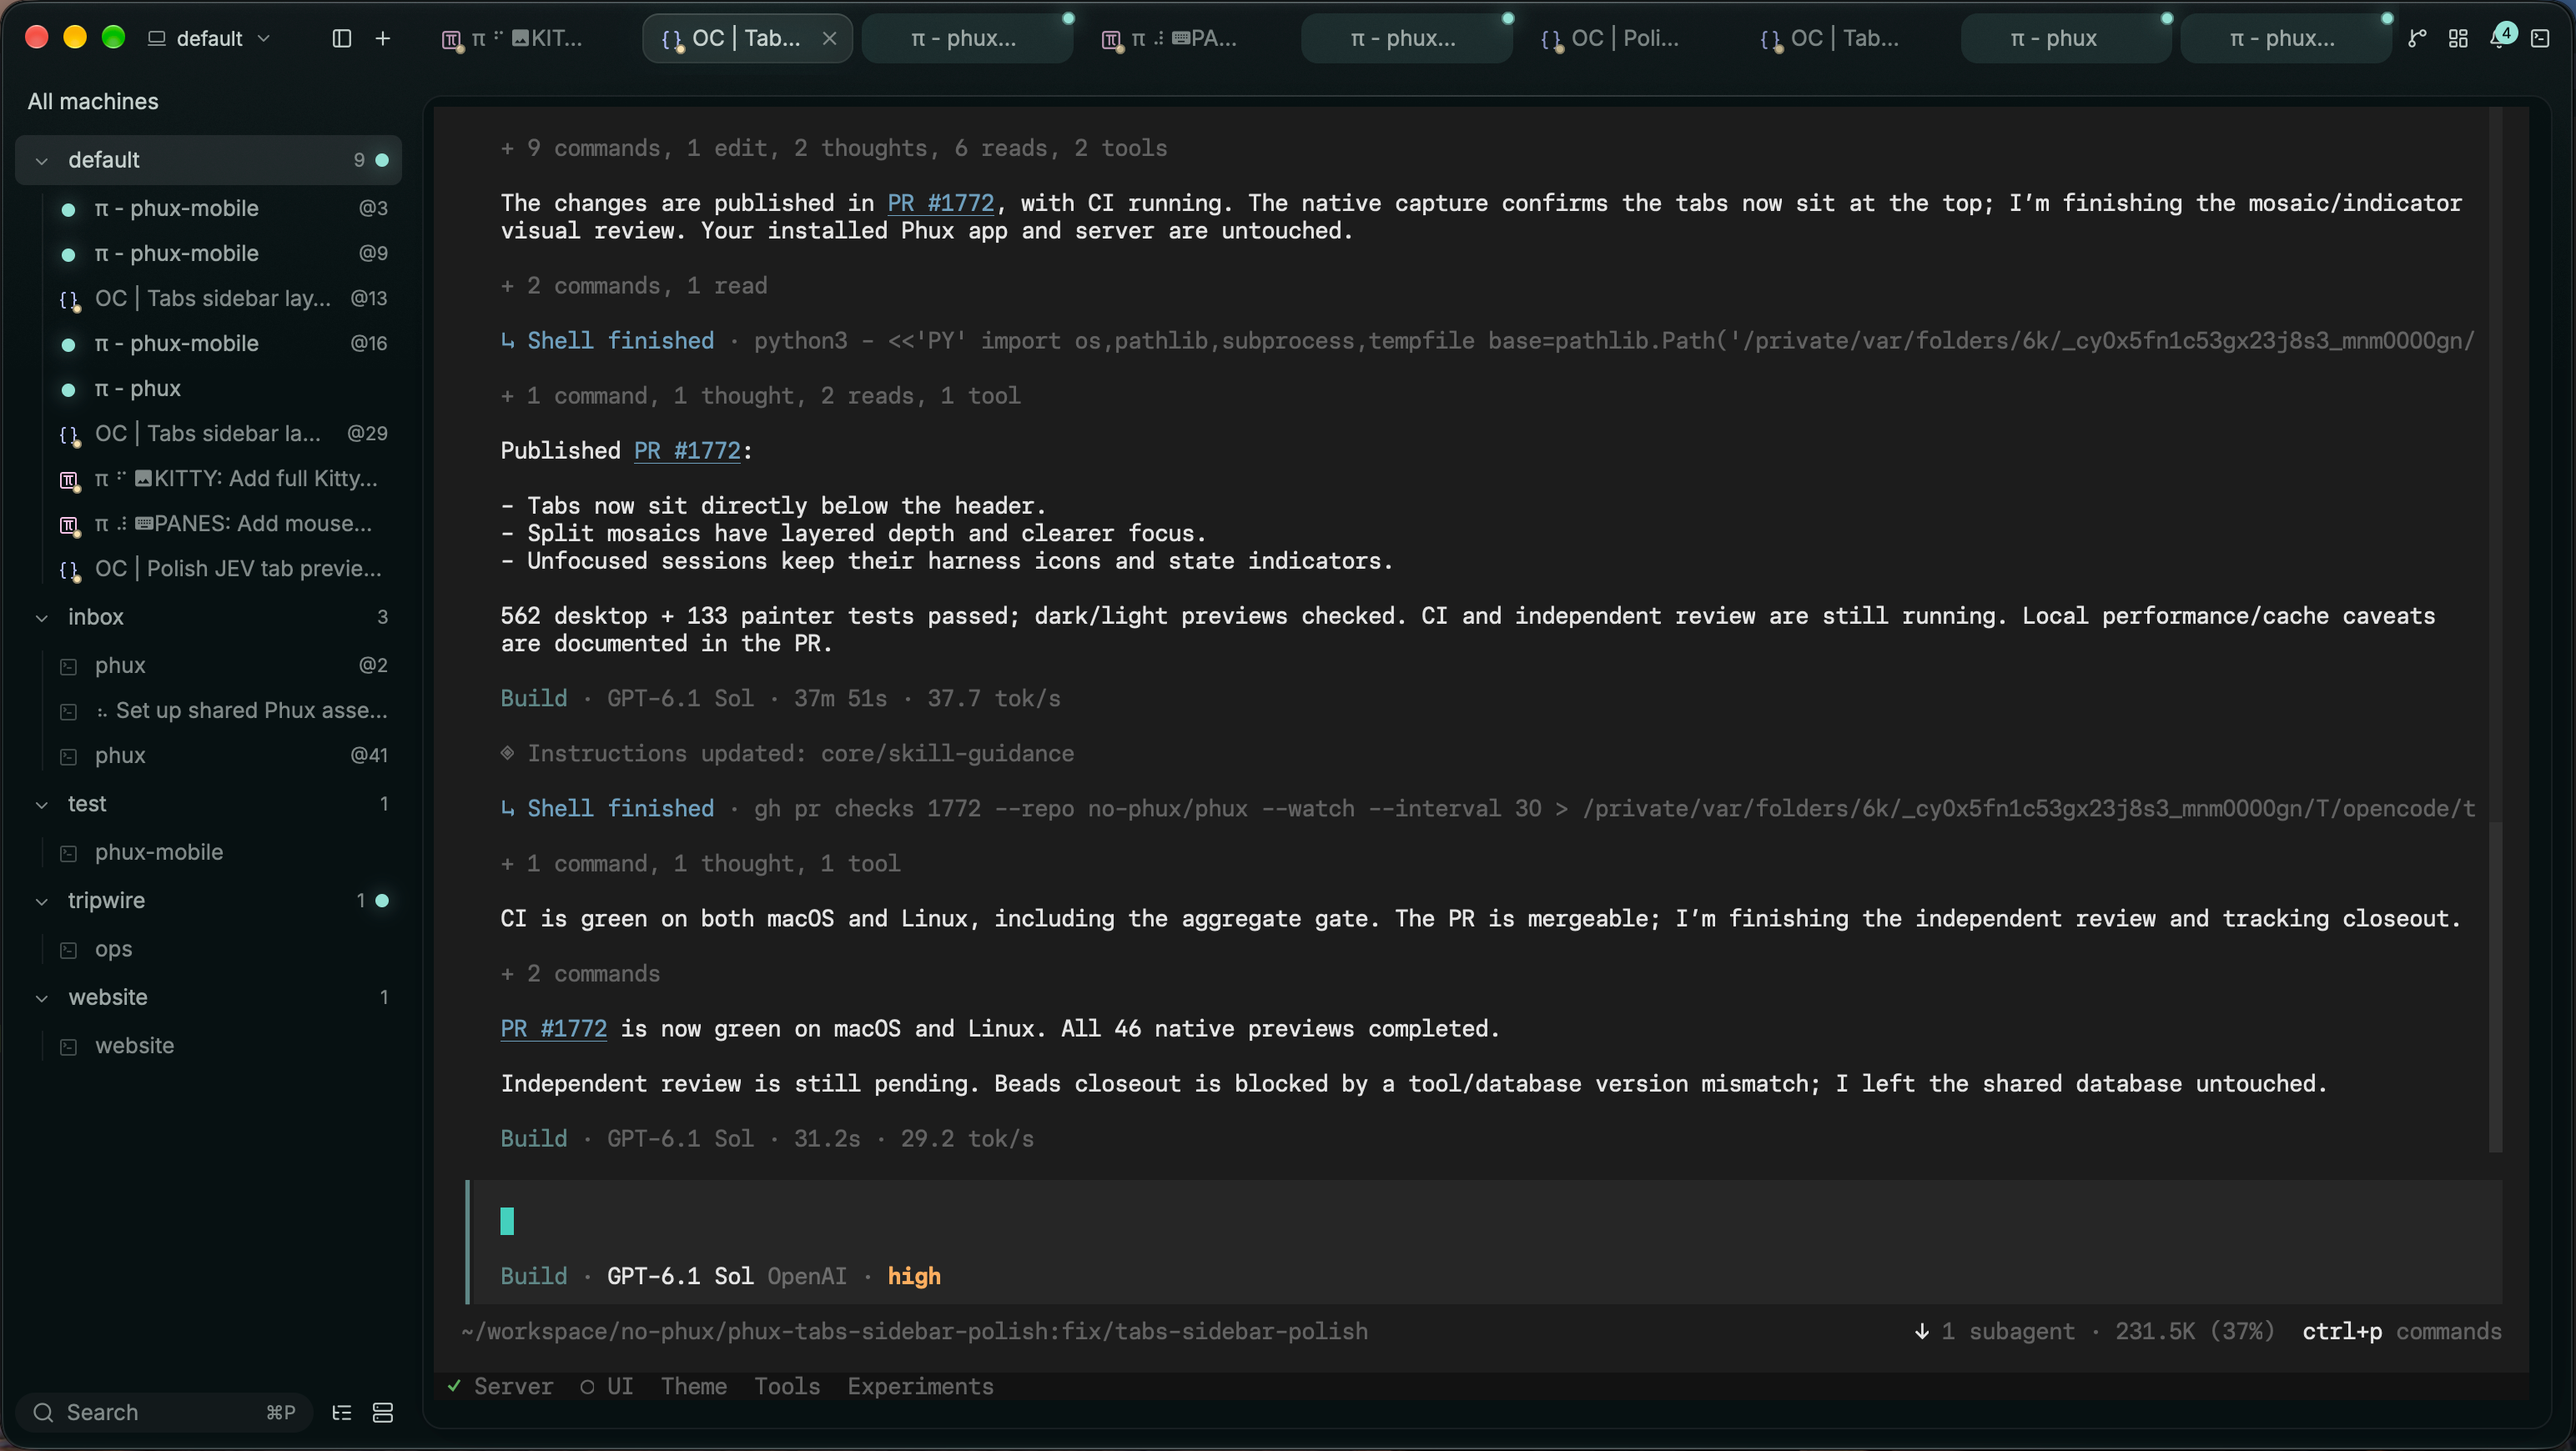
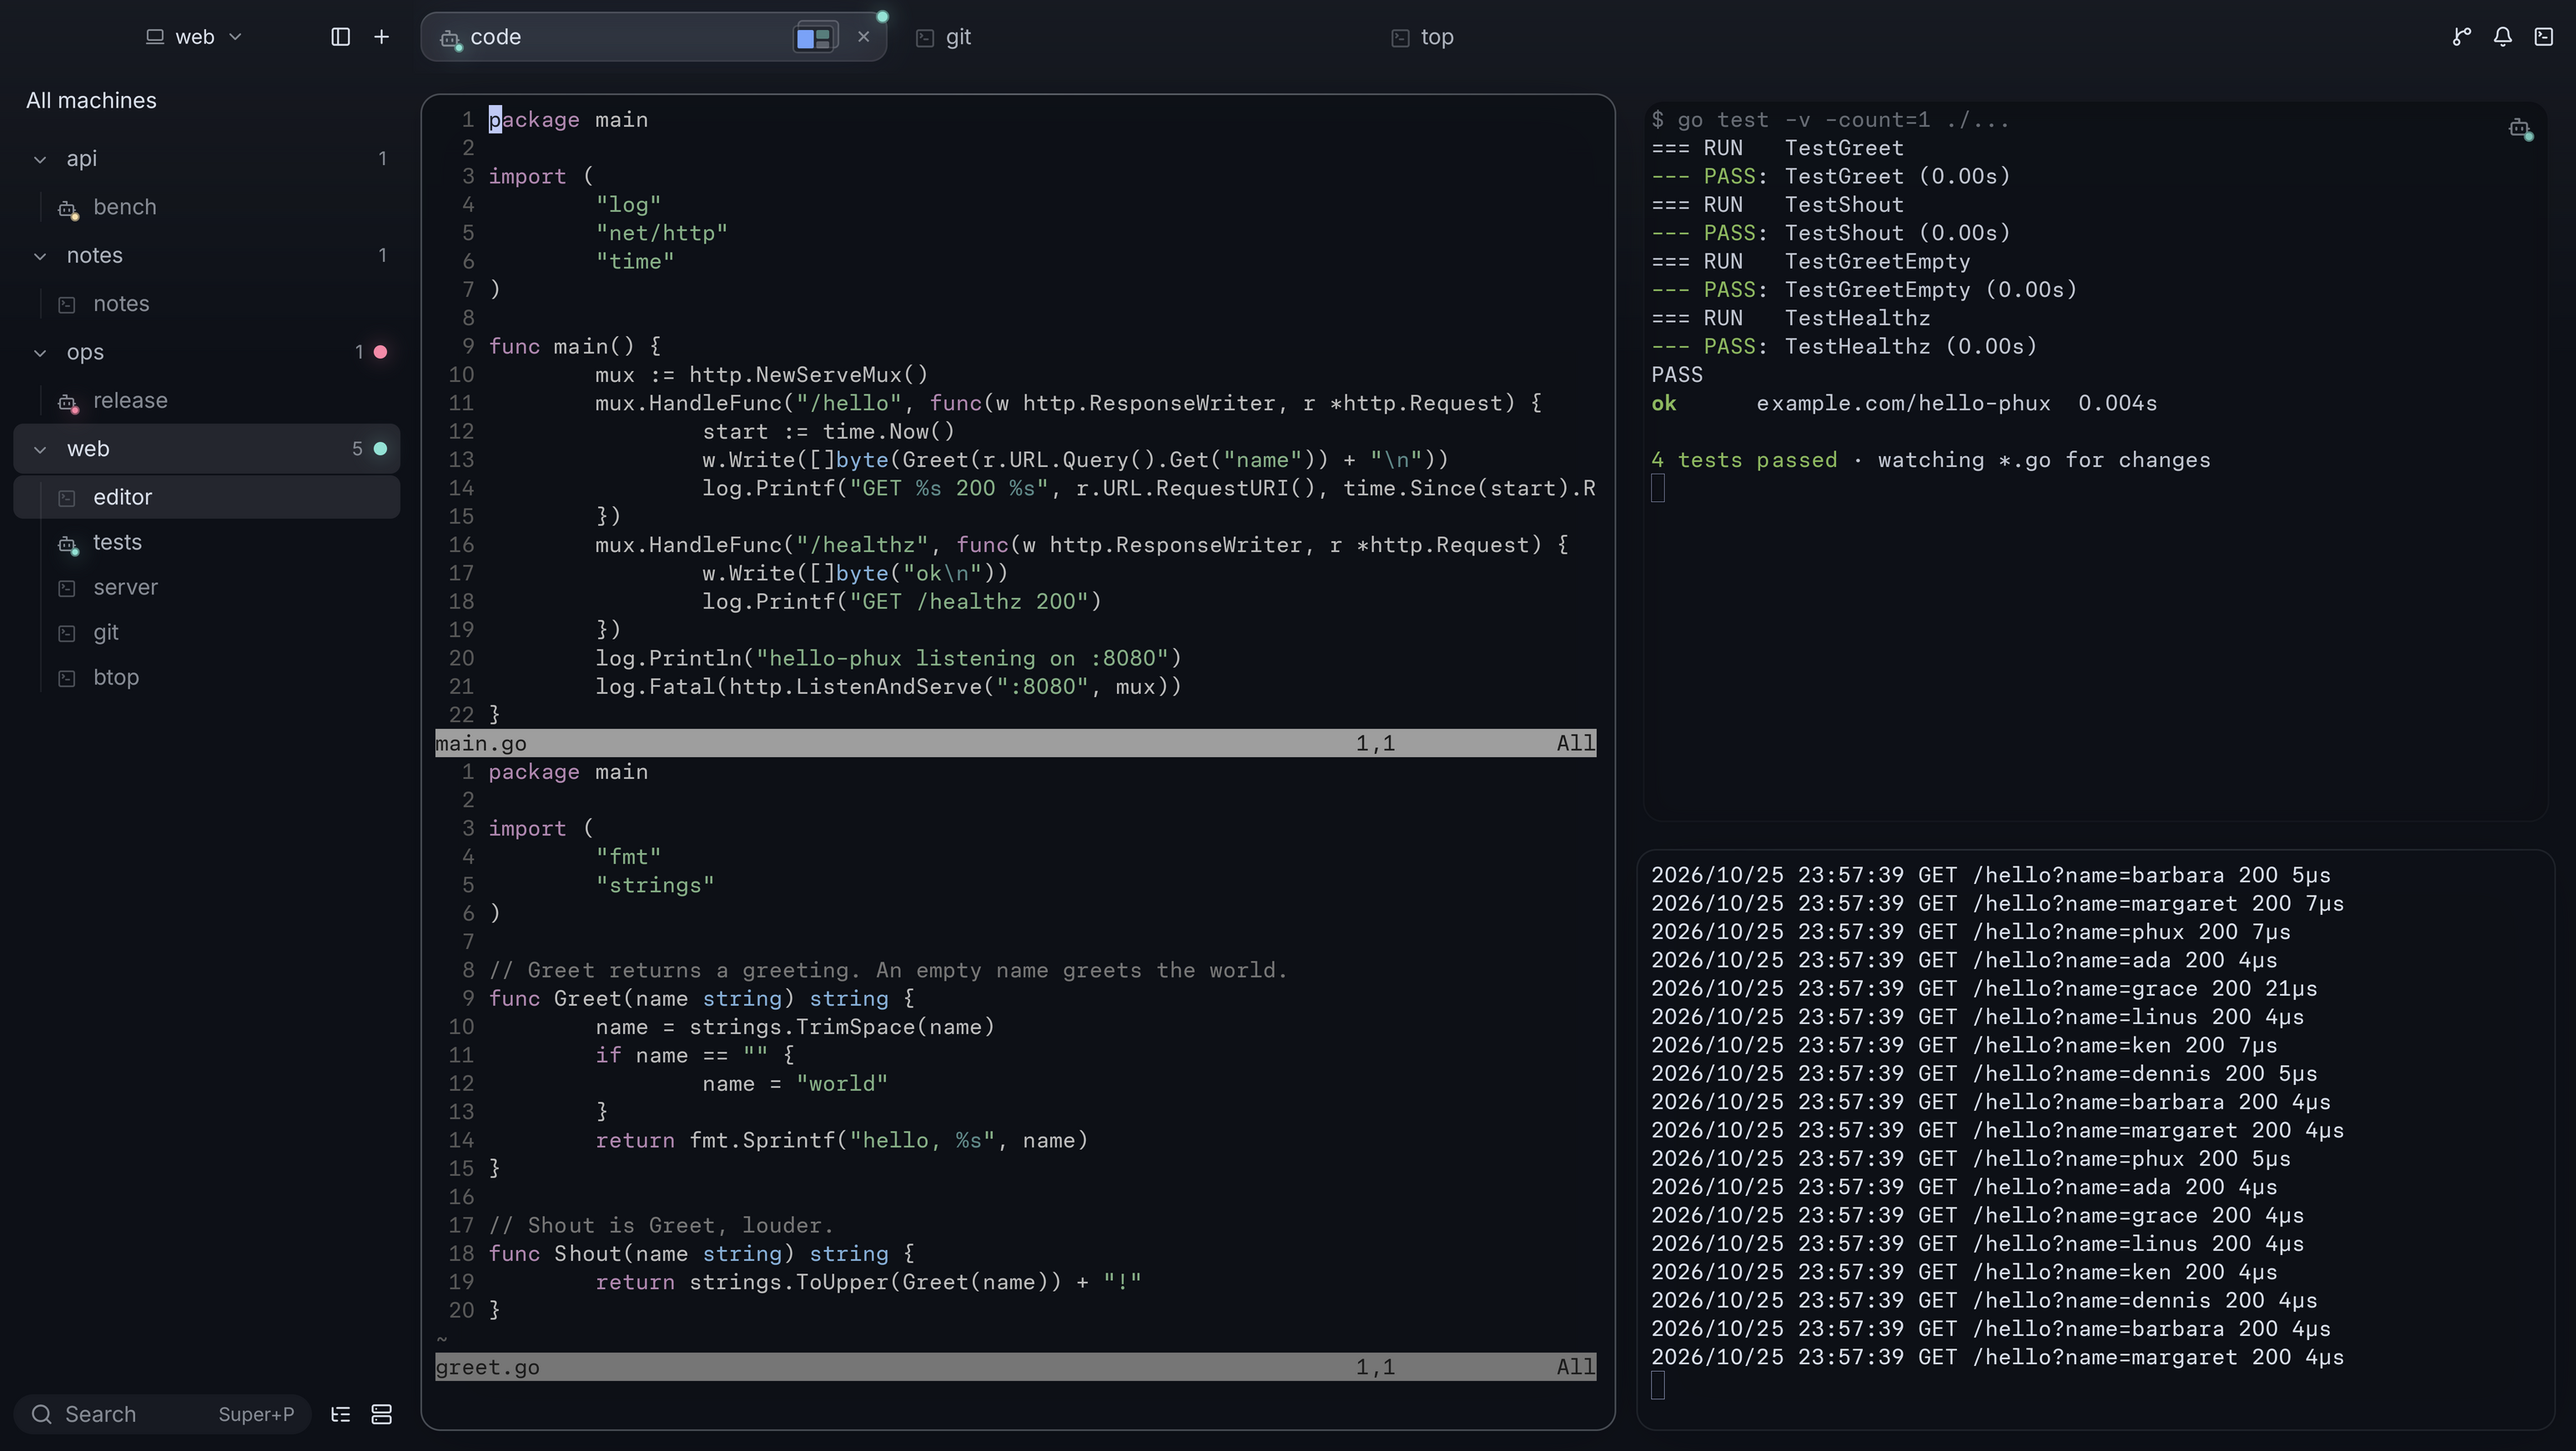
fix(site): replace product shots with privacy-safe captures
The homepage and OG card use demo-user screenshots. The TUI file is
re-encoded at quality 85 so it stays near the previous size. The
first-open line stays; desktop 0.47.1 notarization confirms it.

diff --git a/scripts/verify-home.ts b/scripts/verify-home.ts
@@ -137,7 +137,7 @@ try {
   assert.ok(await download.isVisible(), "hover swaps to the desktop download");
   assert.equal(await command.isHidden(), true, "Desktop leads with the download, not a command");
   assert.equal(await download.getAttribute("href"), "/download/desktop", "the download is the worker's stable Mac archive redirect");
-  assert.equal((await page.locator("#install-note").innerText()).trim(), "First open: macOS asks to confirm an app downloaded from the internet. Choose Open.", "the first-open line stays until a real Mac confirms it");
+  assert.equal((await page.locator("#install-note").innerText()).trim(), "First open: macOS asks to confirm an app downloaded from the internet. Choose Open.", "the notarized, stapled desktop asks to confirm an app downloaded from the internet");
   assert.equal(await page.locator(".linux-desktop-note").count(), 0);
   await target("mobile").click();
   assert.equal(await target("mobile").getAttribute("aria-pressed"), "true", "the clicked target is pressed");

diff --git a/src/lib/install.ts b/src/lib/install.ts
@@ -24,7 +24,6 @@ export const installTargets: InstallTarget[] = [
 /** The stable Apple-silicon Desktop archive; the site worker resolves it per click (host/download.ts). */
 export const desktopDownload = "/download/desktop";
 
-/** Pending a real-Mac check. Delete this line if that Mac shows no confirmation dialog. */
 export const desktopFirstOpen = "First open: macOS asks to confirm an app downloaded from the internet. Choose Open.";
 
 /** The same installer, told to print its plan and install nothing. */

diff --git a/src/lib/site.ts b/src/lib/site.ts
@@ -18,7 +18,7 @@ export const SITE = {
   designMode: "terminal",
   // Names the /og.png artwork. Link previews cache by URL, so change this
   // whenever src/pages/og.png.ts draws a different picture.
-  previewArtwork: "sculptural-workspace",
+  previewArtwork: "demo-workspace",
   // Set when the WS demo backend is deployed. When empty the terminal island
   // renders the static poster + a "coming online" state instead of dialing out.
   demoWsUrl: import.meta.env.PUBLIC_PHUX_DEMO_WS ?? "",

diff --git a/public/product/README.md b/public/product/README.md
@@ -1,15 +1,13 @@
 # Workspace captures
 
-Real TUI and Desktop screenshots supplied by the user on October 24, 2026:
+Privacy-safe TUI and Desktop screenshots. Both show the `default` workspace
+for the `demo` user, with neutral session names and paths under
+`/Users/demo/dev/phux`.
 
-- `desktop-workspace.webp`: `Screenshot 2026-10-24 at 5.33.46 PM.png`.
-- `tui-workspace.webp`: `Screenshot 2026-10-24 at 5.33.40 PM.png`.
+- `desktop-workspace.webp`: lossless WebP, 3088 × 1740.
+- `tui-workspace.webp`: lossy WebP (`cwebp -q 85`), 3088 × 1740. The lossless
+  source was 858 KB; the previous asset at these dimensions was 164 KB, so
+  the TUI file is re-encoded instead of committed lossless.
 
-Both source images are 3840 × 2160. Each uses the same crop: x=324, y=116,
-width=3088, height=1740. This removes the macOS desktop and menu bar while
-preserving the complete app window. The crops are encoded as lossless WebP,
-without resizing or changing the product UI.
-
-They show the same `default` workspace with different active agent tabs.
 The homepage overlays them at identical dimensions for its drag reveal.
 Do not substitute an Agent Fleet overview, invented UI, or unrelated session.
